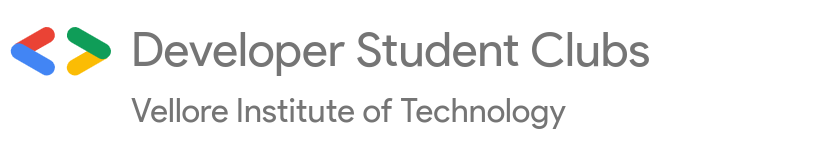
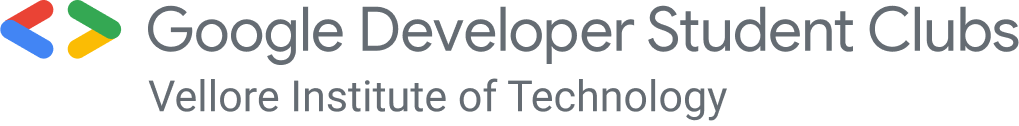
fix: dsclogo change

Changed region(s): [[0.0, 0.0, 1.0, 0.5238], [0.1244, 0.619, 0.7153, 0.9524]]

diff --git a/index.html b/index.html
@@ -147,8 +147,8 @@
                     <path id="Path_6" data-name="Path 6" d="M42.2,220.815V-.691h63.973q26.389,0,44.381,7.4A72.008,72.008,0,0,1,179.937,28.3q11.4,14.194,16.393,34.385t5,45.78q0,26.389-5.4,44.981t-13.794,30.987a72.169,72.169,0,0,1-18.992,19.592,93.2,93.2,0,0,1-21.391,11,89.709,89.709,0,0,1-20.391,4.8,159.313,159.313,0,0,1-15.993,1ZM4.212-32.677V252.8H102.17q35.585,0,61.574-10t42.782-28.988q16.793-18.992,24.789-46.78t8-63.773q0-68.771-35.585-102.356T102.17-32.677Zm446.61,83.564h35.985q-.8-23.59-9-40.583a79.074,79.074,0,0,0-22.39-28.188,92.357,92.357,0,0,0-32.986-16.393,152.541,152.541,0,0,0-40.783-5.2,146.442,146.442,0,0,0-38.184,5,104.987,104.987,0,0,0-33.186,15.194,76.9,76.9,0,0,0-23.39,25.989Q278.1,22.5,278.1,44.09q0,19.592,7.8,32.586a63.208,63.208,0,0,0,20.791,21.191,120.832,120.832,0,0,0,29.387,13.194q16.393,5,33.386,8.8t33.386,7.4a152.211,152.211,0,0,1,29.388,9.4q12.994,5.8,20.791,14.994t7.8,23.99q0,15.593-6.4,25.589a46.557,46.557,0,0,1-16.793,15.793,75.978,75.978,0,0,1-23.39,8.2,141.8,141.8,0,0,1-25.789,2.4,122.029,122.029,0,0,1-31.187-4,77.6,77.6,0,0,1-26.589-12.395,63.621,63.621,0,0,1-18.392-21.391q-7-12.994-7-30.987H269.3q0,25.989,9.4,44.981a86.245,86.245,0,0,0,25.589,31.187A112.072,112.072,0,0,0,341.868,253.2a167.386,167.386,0,0,0,45.381,6,173.555,173.555,0,0,0,39.383-4.6,113.97,113.97,0,0,0,35.785-14.794,83.911,83.911,0,0,0,26.189-26.389q10.2-16.193,10.2-38.983,0-21.191-7.8-35.185a69.459,69.459,0,0,0-20.791-23.19,110.123,110.123,0,0,0-29.388-14.594q-16.393-5.4-33.386-9.4t-33.386-7.4a174.823,174.823,0,0,1-29.387-8.6q-12.995-5.2-20.791-13.394t-7.8-21.391q0-13.994,5.4-23.39A41.98,41.98,0,0,1,335.871,2.908a62.637,62.637,0,0,1,20.591-8,116.126,116.126,0,0,1,23.59-2.4q29.587,0,48.579,13.794T450.822,50.887Zm294.675,2.4H783.48q-3.2-22.79-13.594-40.183A98.867,98.867,0,0,0,743.9-15.884a113.92,113.92,0,0,0-35.585-17.593,146.743,146.743,0,0,0-42.382-6q-32.786,0-58.175,11.795A120.227,120.227,0,0,0,565.373,4.507a141.151,141.151,0,0,0-25.789,47.78,190.461,190.461,0,0,0-8.8,58.575,201.3,201.3,0,0,0,8.2,58.375q8.2,27.188,24.59,47.18A113.868,113.868,0,0,0,604.756,247.8q24.789,11.4,57.975,11.4,54.777,0,86.363-29.987t37.184-83.964H748.3a108.929,108.929,0,0,1-7.2,32.786,79.129,79.129,0,0,1-16.593,26.189,75.573,75.573,0,0,1-25.189,17.193q-14.594,6.2-33.386,6.2-25.589,0-43.981-9.6a85.894,85.894,0,0,1-30.187-25.789q-11.8-16.193-17.393-37.984a184.987,184.987,0,0,1-5.6-46.18,165.375,165.375,0,0,1,5.6-43.182A111.3,111.3,0,0,1,591.762,27.9,86.407,86.407,0,0,1,621.749,2.108q18.192-9.6,43.781-9.6,29.987,0,51.778,15.194T745.5,53.286ZM911.426-32.677H963.4l71.57,225.9h.8l73.169-225.9h50.778L1062.162,252.8h-55.576Zm276.682,0h49.979V252.8h-49.979Zm83.964,0h231.1V10.5h-90.761V252.8h-49.979V10.5h-90.361Z" transform="translate(863.089 249.909)" fill="#707070"/>
                 </g>
                 </svg> -->
-                <img data-aos="fade-up" src="images/DSC Vellore Institute of Technology Light Horizontal-Logo-WHITE - Copy.png" class="logo-nav" alt="GDSC VIT" style="margin-right: 45px; margin-left: -20px;">
-                <img data-aos="fade-up" src="images/color.png" class="logo-nav-light" alt="GDSC VIT" style="margin-right: 45px; margin-left: -20px;">
+                <img data-aos="fade-up" src="images/DSClogo.svg" class="logo-nav" alt="GDSC VIT" style="margin-right: 45px; margin-left: -20px;">
+                <img data-aos="fade-up" src="images/DSClogo.svg" class="logo-nav-light" alt="GDSC VIT" style="margin-right: 45px; margin-left: -20px;">
             </div>
 
             <div class="menu barlow-extralight">
@@ -221,8 +221,8 @@
 
                 <div class="main-text-holder-heading">
 
-                    <img data-aos="fade-up" src="images/DSC Vellore Institute of Technology Light Horizontal-Logo-WHITE - Copy.png" class="logo" alt="GDSC VIT">
-                    <img data-aos="fade-up" src="images/color.png" class="logo-light" alt="GDSC VIT">
+                    <img data-aos="fade-up" src="images/DSClogo.svg" class="logo" alt="GDSC VIT">
+                    <img data-aos="fade-up" src="images/DSClogo.svg" class="logo-light" alt="GDSC VIT">
                     <!-- <h1 data-aos="fade-up" class="barlow-extralight">
 
                         GDSC VIT

diff --git a/css/index.css b/css/index.css
@@ -29,9 +29,11 @@ html{
 }
 .logo-nav {
     width:250px;
+    margin-top: 10px;
 }
 .logo-nav-light{
-    width:300px
+    width:250px;
+    margin-top: 10px;
 }
 .dark{
     color: #ffffff;
